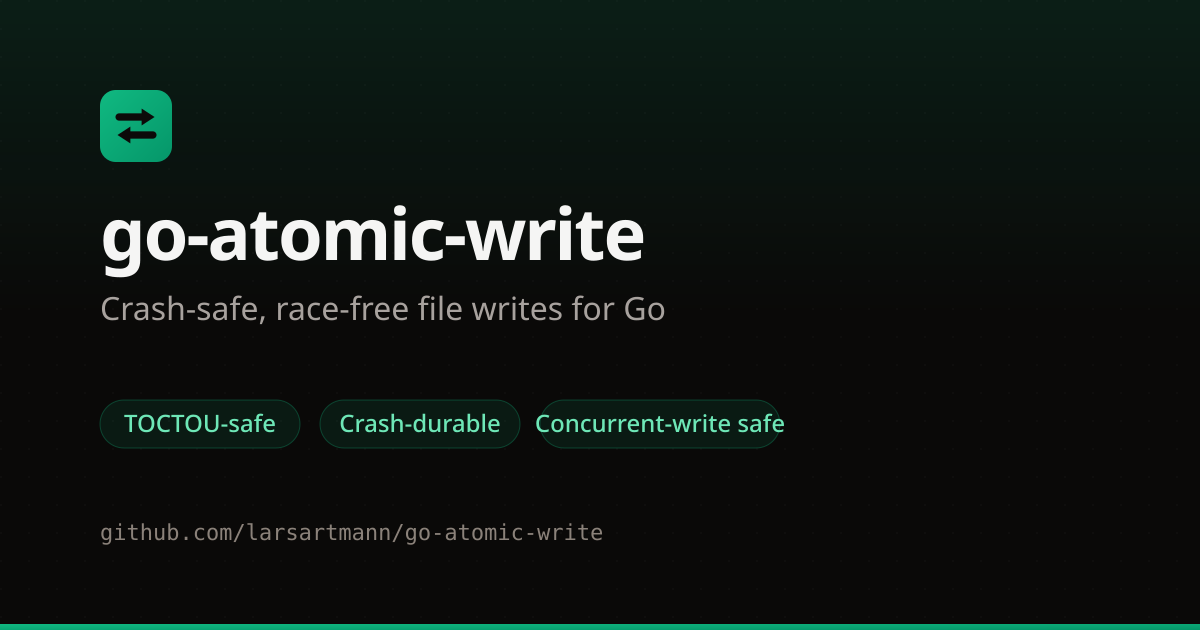
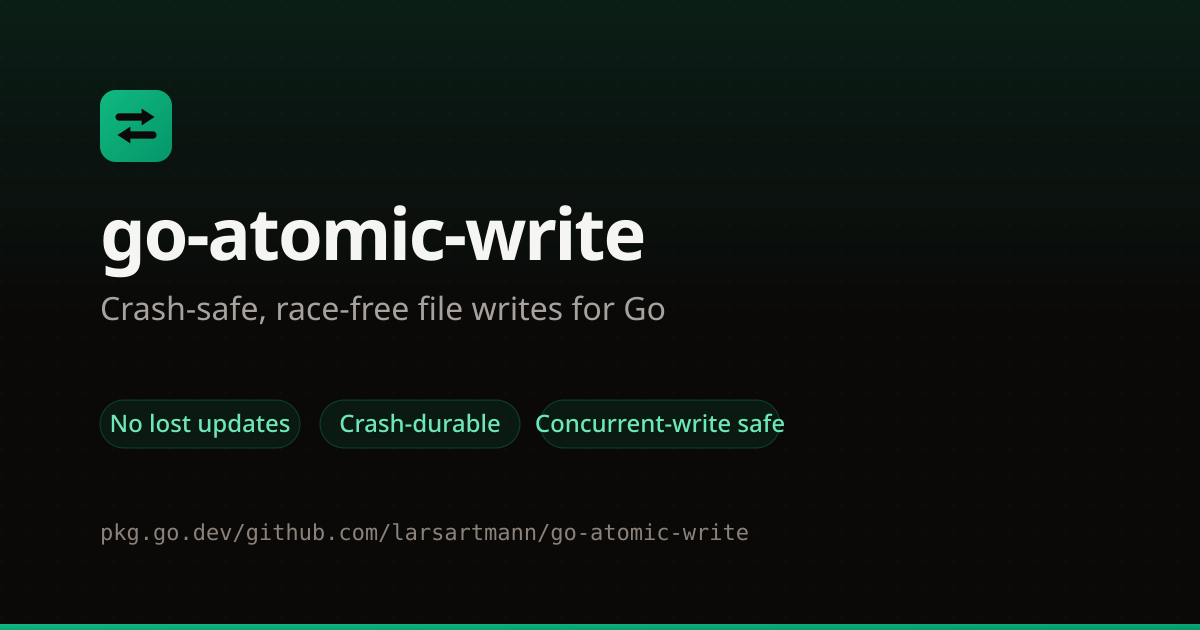
fix(brand): OG card says 'No lost updates', points at pkg.go.dev
The social-share card still carried the pre-September mechanism voice
(TOCTOU-safe) and a GitHub URL on every Slack/X/Facebook preview. The
generator constants now match the landing page's consequence voice;
all 9 SVG artifacts regenerated and byte-gated, rasters re-encoded.

Changed region(s): [[0.0925, 0.8143, 0.6167, 0.8746], [0.0925, 0.6333, 0.2467, 0.6937]]

diff --git a/CHANGELOG.md b/CHANGELOG.md
@@ -7,6 +7,10 @@ and this project adheres to [Semantic Versioning](https://semver.org/).
 
 ## [Unreleased]
 
+### Fixed (website)
+
+- **OG card voice aligned with the landing page** — the generated social-share card still said "TOCTOU-safe" (the pre-September mechanism voice) and pointed at the GitHub URL on every Slack/X/Facebook preview. The brand generator now emits "No lost updates" (consequence voice) and the pkg.go.dev URL; `og-image.svg`/`png`, the lockups, and `favicon.ico` were regenerated from the same geometry (`brand:check` gates the SVGs).
+
 ## [0.6.1] - 2026-11-04
 
 ### Changed (Go module)
